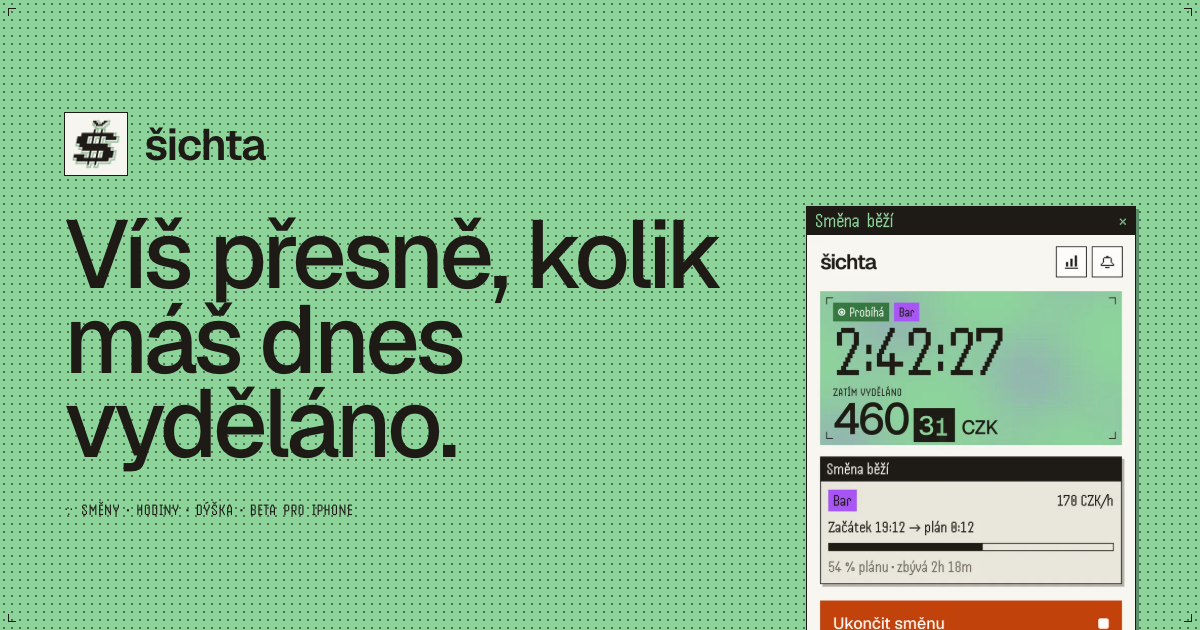
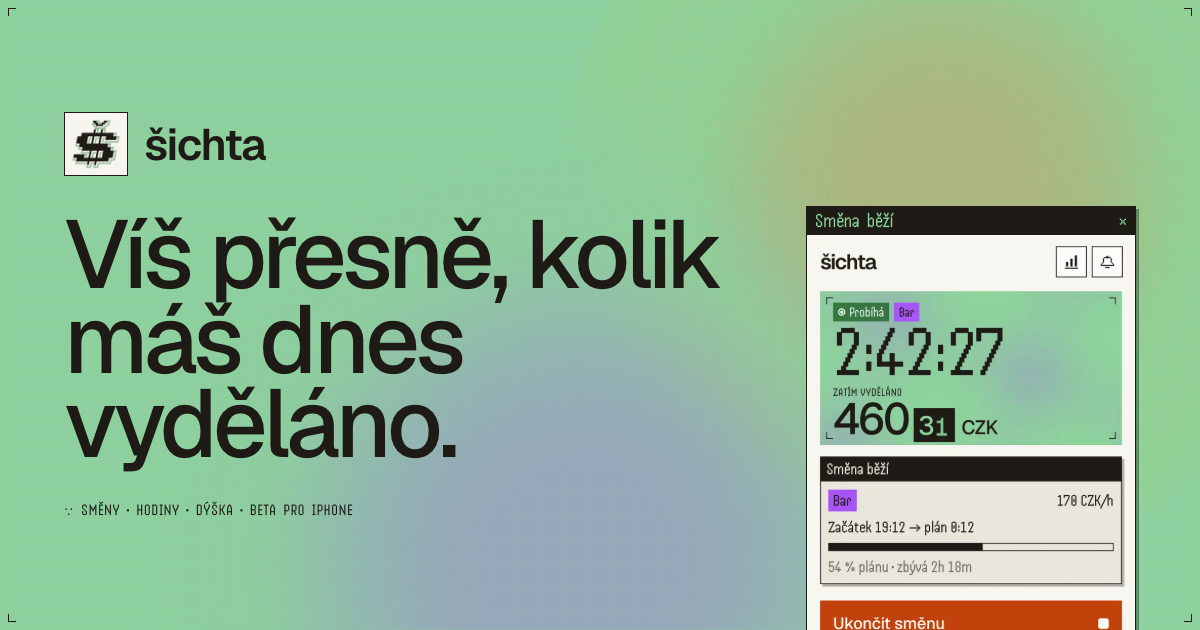
Landing: link previews with the colour blobs
og-cs/og-en now show the stage's purple and orange halftone blobs instead
of the old dot grid; ?v=6 so link caches fetch the new image.

Changed region(s): [[0.0, 0.4524, 0.6783, 1.0], [0.6167, 0.0, 0.9558, 0.4825], [0.9558, 0.9952, 1.0, 1.0]]

diff --git a/index.en.html b/index.en.html
@@ -19,7 +19,7 @@
 <meta property="og:title" content="šichta — know exactly what you earned today">
 <meta property="og:description" content="šichta is a personal log of your shifts and earnings for side jobs, agreements and full-time work. Timer, tips, net pay estimate, paydays and widgets. iPhone beta on TestFlight.">
 <meta property="og:url" content="https://theanhgen.github.io/sichta-legal/index.en.html">
-<meta property="og:image" content="https://theanhgen.github.io/sichta-legal/assets/img/og-en.png?v=5">
+<meta property="og:image" content="https://theanhgen.github.io/sichta-legal/assets/img/og-en.png?v=6">
 <meta property="og:image:width" content="1200">
 <meta property="og:image:height" content="630">
 <meta property="og:image:alt" content="šichta — your personal log of shifts and earnings">

diff --git a/index.html b/index.html
@@ -19,7 +19,7 @@
 <meta property="og:title" content="šichta — víš přesně, kolik máš dnes vyděláno">
 <meta property="og:description" content="šichta je osobní přehled směn a výdělku pro brigády, dohody i HPP. Stopky, dýška, odhad čisté mzdy, výplaty a widgety. Beta pro iPhone na TestFlightu.">
 <meta property="og:url" content="https://theanhgen.github.io/sichta-legal/">
-<meta property="og:image" content="https://theanhgen.github.io/sichta-legal/assets/img/og-cs.png?v=5">
+<meta property="og:image" content="https://theanhgen.github.io/sichta-legal/assets/img/og-cs.png?v=6">
 <meta property="og:image:width" content="1200">
 <meta property="og:image:height" content="630">
 <meta property="og:image:alt" content="šichta — osobní přehled směn a výdělku">
